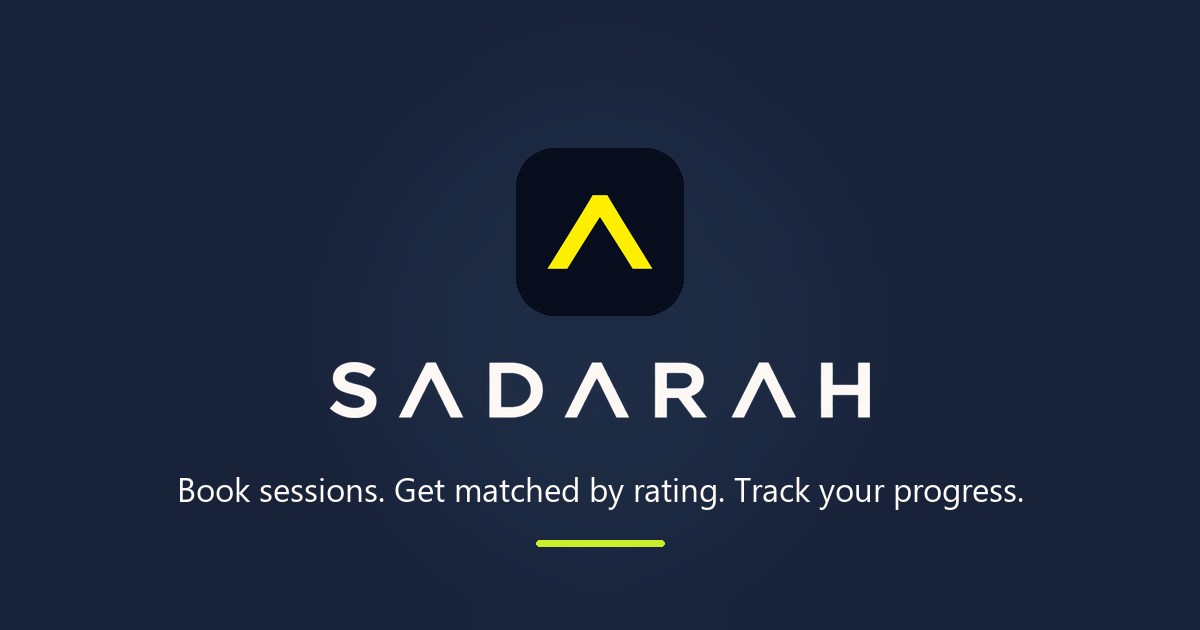
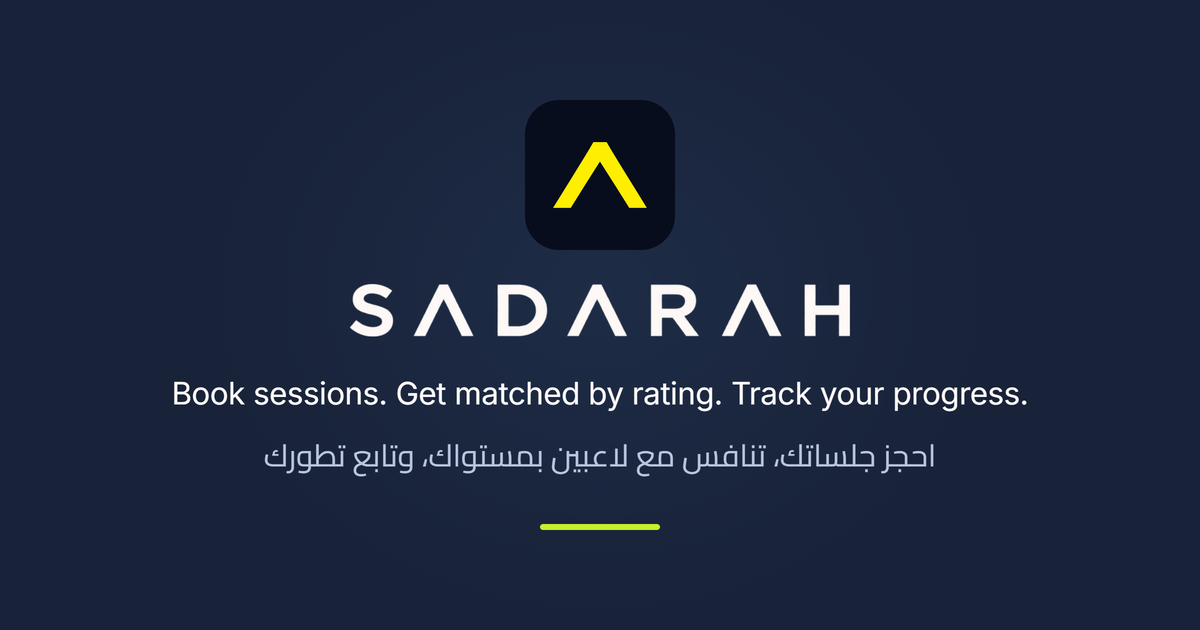
Make the /get preview card bilingual
Adds the Arabic tagline next to the English one, in Cairo — the same face
lib/main.dart gives Arabic locales, with Inter for Latin, so the card
matches the app rather than the OS default.

The card is now generated from tools/og-card.html via headless Chrome
instead of drawn with PIL. Arabic needs a real text engine: PIL has no
Raqm on this machine, so it drew the letters unjoined and left-to-right.
Rendered at 2x and downsampled, with --disable-lcd-text, to avoid the
subpixel colour fringing a 1x screenshot bakes in.

og:image carries ?v=2 so scrapers that cached the English-only card
refetch it.

Changed region(s): [[0.2775, 0.1508, 0.7092, 0.5429], [0.1542, 0.6937, 0.8633, 0.8746], [0.1233, 0.573, 0.8633, 0.6635]]

diff --git a/tools/og-card.html b/tools/og-card.html
@@ -1,0 +1,26 @@
+<!doctype html>
+<meta charset="utf-8">
+<link rel="preconnect" href="https://fonts.googleapis.com">
+<link rel="preconnect" href="https://fonts.gstatic.com" crossorigin>
+<link href="https://fonts.googleapis.com/css2?family=Inter:wght@400;500;700&family=Cairo:wght@400;600;700&display=swap" rel="stylesheet">
+<style>
+  * { margin:0; padding:0; box-sizing:border-box; }
+  html,body { width:1200px; height:630px; }
+  body {
+    background:#182238;
+    background-image: radial-gradient(ellipse 620px 520px at 50% 46%, #1E2C46 0%, #182238 70%);
+    display:flex; flex-direction:column; align-items:center; justify-content:center;
+    font-family:'Inter',sans-serif; color:#FFFBF8; overflow:hidden;
+    -webkit-font-smoothing:antialiased; text-rendering:optimizeLegibility;
+  }
+  .icon { width:150px; height:150px; border-radius:34px; display:block; }
+  .wordmark { width:500px; margin-top:34px; display:block; }
+  .tag-en { font-size:31px; font-weight:400; margin-top:38px; letter-spacing:-0.01em; color:#FFFBF8; }
+  .tag-ar { font-family:'Cairo',sans-serif; font-size:31px; font-weight:400; margin-top:14px; direction:rtl; color:#B9C6DE; }
+  .rule { width:120px; height:6px; border-radius:3px; background:#C8F02A; margin-top:40px; }
+</style>
+<img class="icon" src="../assets/app-icon.png">
+<img class="wordmark" src="../assets/wordmark-dark.png">
+<div class="tag-en">Book sessions. Get matched by rating. Track your progress.</div>
+<div class="tag-ar">احجز جلساتك، تنافس مع لاعبين بمستواك، وتابع تطورك</div>
+<div class="rule"></div>

diff --git a/get/index.html b/get/index.html
@@ -8,7 +8,7 @@
   <meta name="apple-itunes-app" content="app-id=6771104812">
   <meta property="og:title" content="Sadarah — صدارة">
   <meta property="og:description" content="Book sessions, get matched by rating, track your progress.">
-  <meta property="og:image" content="https://sadarahapp.com/assets/og-card.png">
+  <meta property="og:image" content="https://sadarahapp.com/assets/og-card.png?v=2">
   <meta property="og:image:width" content="1200">
   <meta property="og:image:height" content="630">
   <meta property="og:type" content="website">

diff --git a/tools/README.md b/tools/README.md
@@ -1,0 +1,26 @@
+# tools
+
+## og-card.html
+
+Source for `assets/og-card.png`, the 1200x630 social preview card used by
+`/get`. It is HTML rather than an image editor so the type stays on-brand:
+Inter for Latin and Cairo for Arabic, the same pairing `lib/main.dart` picks
+per locale in the app. Arabic needs a real text engine — a naive image
+generator draws the letters unjoined and left-to-right.
+
+Regenerate after editing (adjust the paths for your machine):
+
+    chrome --headless --disable-gpu --disable-lcd-text --hide-scrollbars \
+      --allow-file-access-from-files --force-color-profile=srgb \
+      --force-device-scale-factor=2 --virtual-time-budget=8000 \
+      --window-size=1200,630 --screenshot=og-card-2x.png       "file:///absolute/path/to/sadarah-site/tools/og-card.html"
+
+Pass an absolute `file://` URL — headless Chrome reads a bare relative path as
+a hostname and renders a DNS error page instead.
+
+Then downsample 2400x1260 -> 1200x630 (Lanczos). Rendering at 2x and scaling
+down is what keeps the text crisp; `--disable-lcd-text` avoids the red/blue
+subpixel fringing that a normal screenshot bakes into the file.
+
+Bump the `?v=` on the `og:image` URL in `get/index.html` whenever the image
+changes — WhatsApp, Facebook and X cache preview images per URL.
